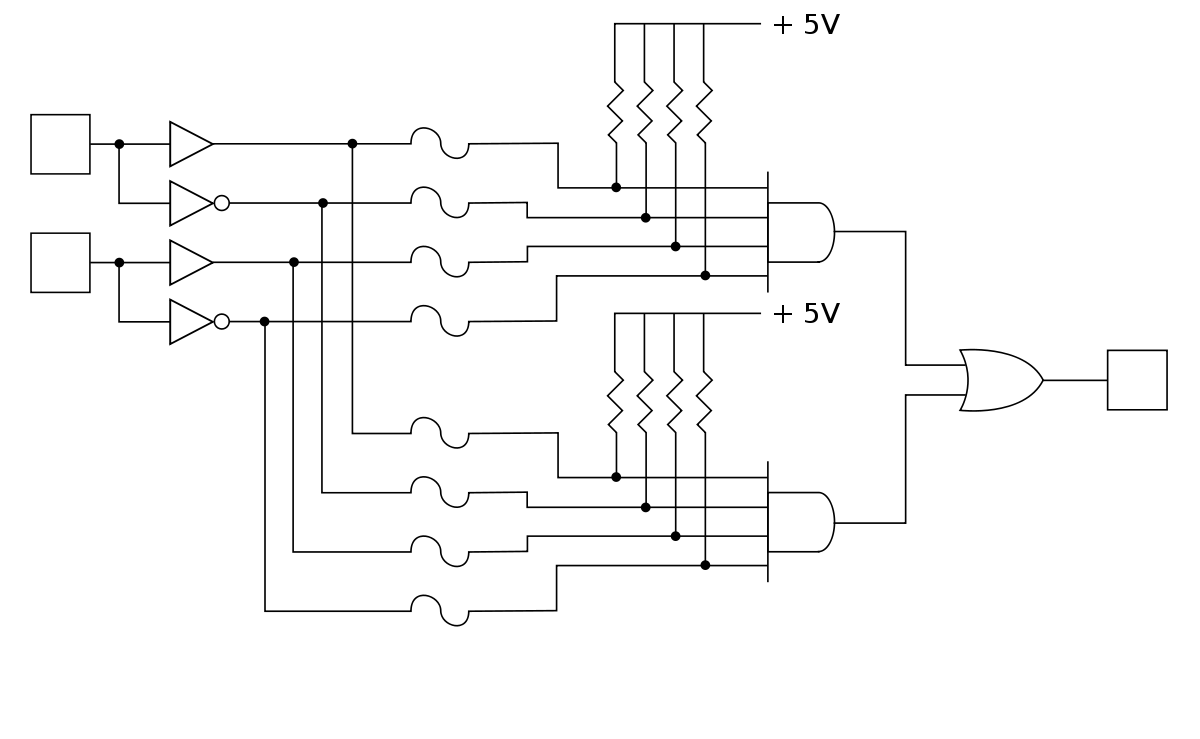
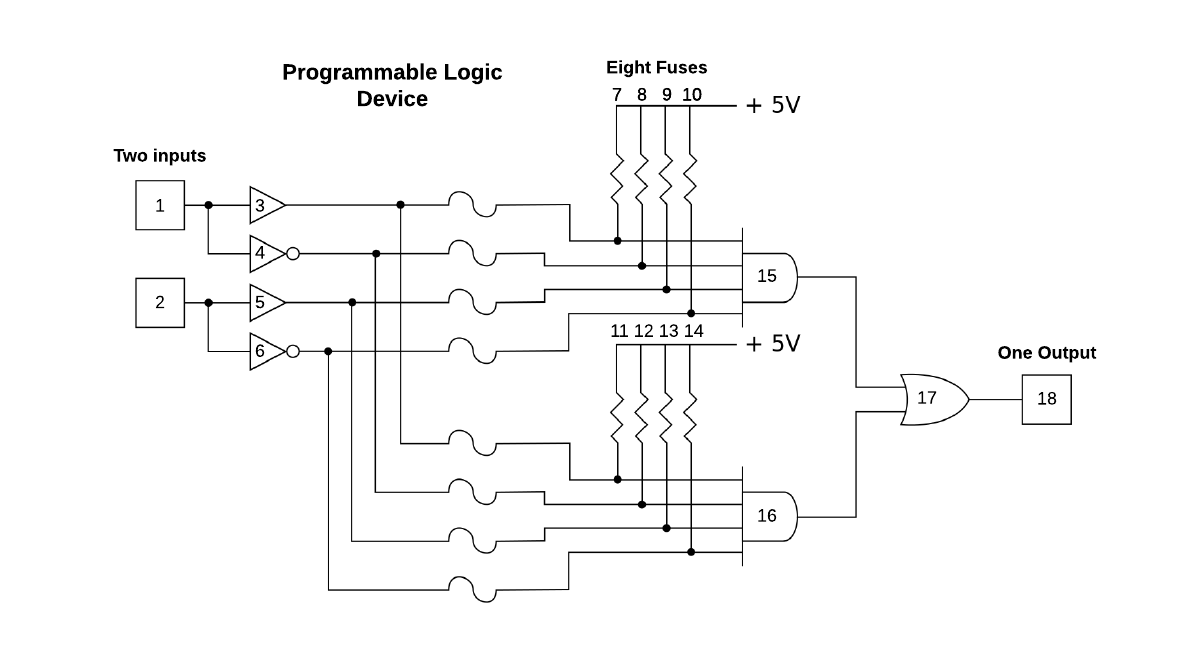
helpful labels

diff --git a/src/App.js b/src/App.js
@@ -2,6 +2,7 @@ import React, { Component } from 'react'
 import './App.css'
 import KibanaFrame from "./components/Kibana"
 import NavInstance from "./components/Nav"
+import Navbar from "react-bootstrap/es/Navbar";
 
 // TODO - refactor DRY
 const initialState = {
@@ -171,9 +172,10 @@ class App extends Component {
   render () {
     return (
       <div>
-        <NavInstance />
+        {/*<NavInstance />*/}
         <div className='left__container'>
-          <img className="image" src={require('./device.png')} alt="logic device"/>
+          <p>Take control of your very own programmable logic device! There are eighteen logic gates, eight of which are fuses that you can turn on or off. Select your two inputs and see how various configurations affect the output. Logic gates are composed of dockerized Go apps connected by amqp-messaging "wires."</p>
+            <img className="image" src={require('./device.png')} alt="logic device"/>
           <KibanaFrame />
         </div>
         <div className='right__container'>
@@ -185,7 +187,7 @@ class App extends Component {
                   <th>Configuration</th>
                 </tr>
                 <tr>
-                  <td><label>1</label></td>
+                  <td><label>7</label></td>
                   <td>
                     <select value={this.state.config7} name="config7" onChange={this.handleChange}>
                       <option value="up">Up</option>
@@ -194,7 +196,7 @@ class App extends Component {
                   </td>
                 </tr>
                 <tr>
-                  <td><label>2</label></td>
+                  <td><label>8</label></td>
                   <td>
                     <select value={this.state.config8} name="config8" onChange={this.handleChange}>
                       <option value="up">Up</option>
@@ -203,7 +205,7 @@ class App extends Component {
                   </td>
                 </tr>
                 <tr>
-                  <td><label>3</label></td>
+                  <td><label>9</label></td>
                   <td>
                     <select value={this.state.config9} name="config9" onChange={this.handleChange}>
                       <option value="up">Up</option>
@@ -212,7 +214,7 @@ class App extends Component {
                   </td>
                 </tr>
                 <tr>
-                  <td><label>4</label></td>
+                  <td><label>10</label></td>
                   <td>
                     <select value={this.state.config10} name="config10" onChange={this.handleChange}>
                       <option value="up">Up</option>
@@ -229,7 +231,7 @@ class App extends Component {
                   <th>Configuration</th>
                 </tr>
                 <tr>
-                  <td><label>5</label></td>
+                  <td><label>11</label></td>
                   <td>
                     <select value={this.state.config11} name="config11" onChange={this.handleChange}>
                       <option value="up">Up</option>
@@ -238,7 +240,7 @@ class App extends Component {
                   </td>
                 </tr>
                 <tr>
-                  <td><label>6</label></td>
+                  <td><label>12</label></td>
                   <td>
                     <select value={this.state.config12} name="config12" onChange={this.handleChange}>
                       <option value="up">Up</option>
@@ -247,7 +249,7 @@ class App extends Component {
                   </td>
                 </tr>
                 <tr>
-                  <td><label>7</label></td>
+                  <td><label>13</label></td>
                   <td>
                     <select value={this.state.config13} name="config13" onChange={this.handleChange}>
                       <option value="up">Up</option>
@@ -256,7 +258,7 @@ class App extends Component {
                   </td>
                 </tr>
                 <tr>
-                  <td><label>8</label></td>
+                  <td><label>14</label></td>
                   <td>
                     <select value={this.state.config14} name="config14" onChange={this.handleChange}>
                       <option value="up">Up</option>
